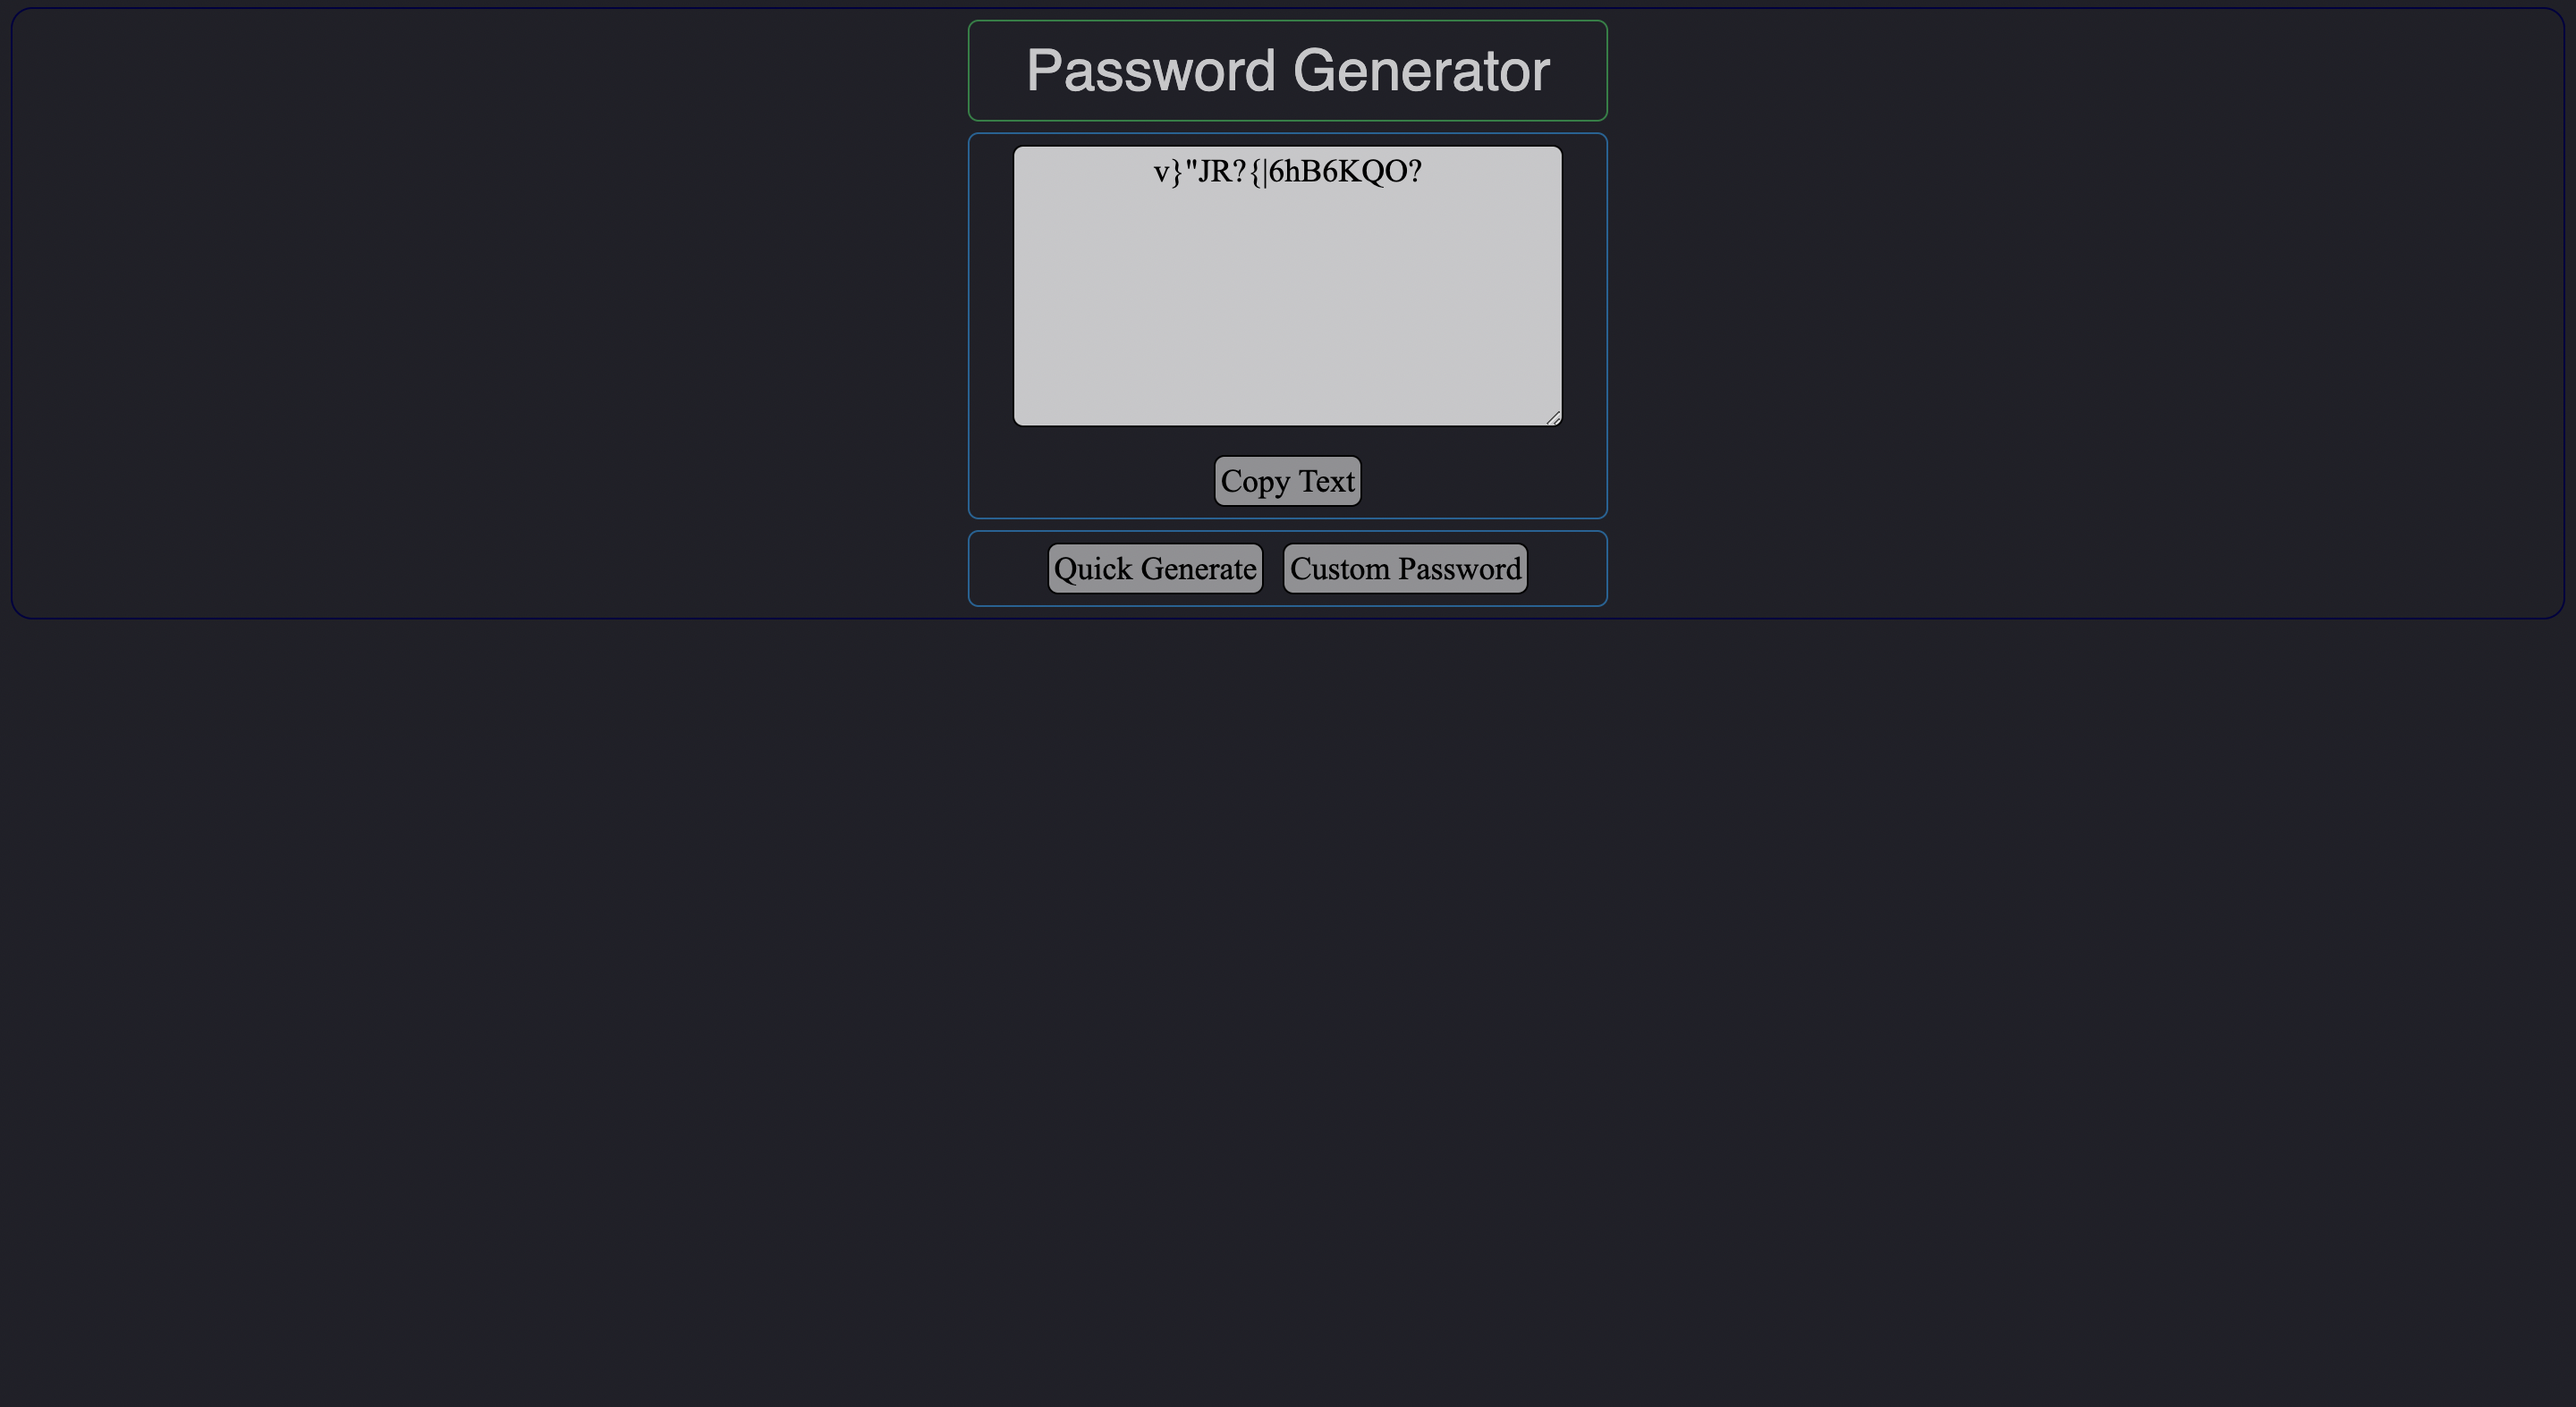
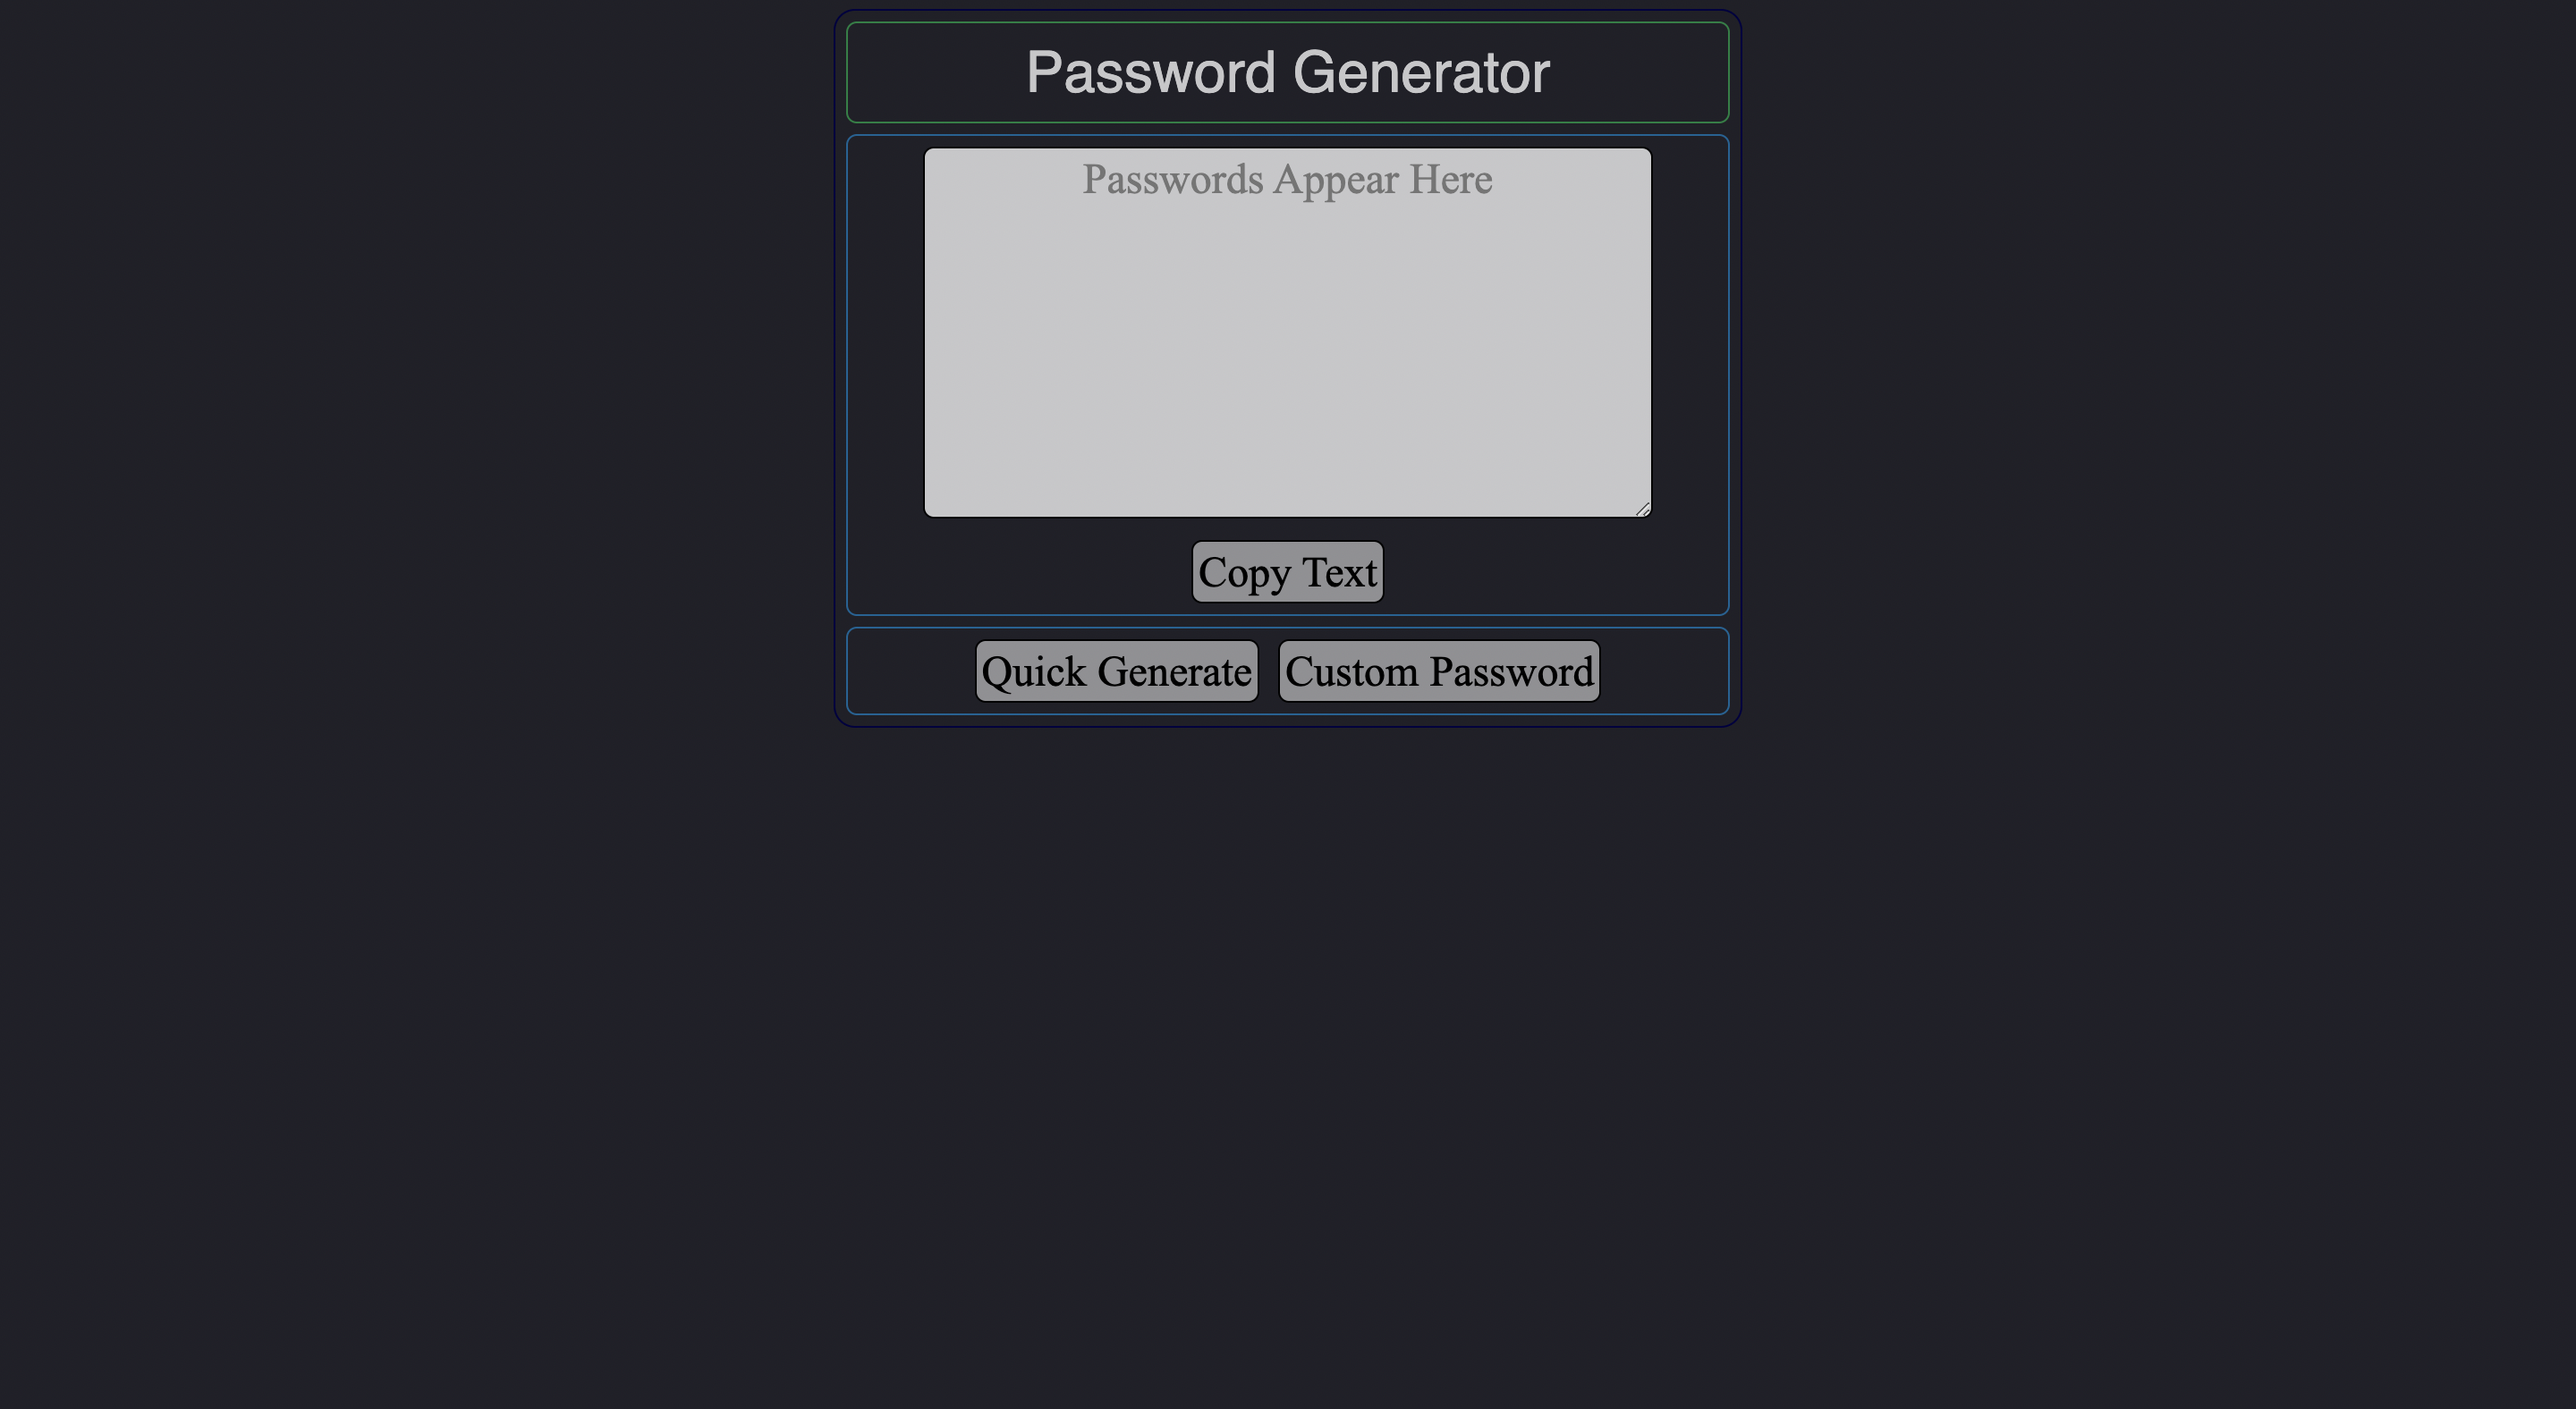
updated ui and screenshot, changed readme description to reflect new functionality

Changed region(s): [[0.3125, 0.0, 0.6875, 0.5292]]

diff --git a/assets/css/style.css b/assets/css/style.css
@@ -53,13 +53,13 @@ div {
 
 .wrapper {
     width: 100%;
-    max-width: 400px;
+    max-width: 500px;
     margin: 6px;
     border-color: var(--blue);
     border-radius: 12px;
 }
 
-h1, h2, a, li {
+h1 {
     color: rgba(255, 255, 255, 0.75);
     border: 0px;
     padding: 3px;
@@ -67,8 +67,8 @@ h1, h2, a, li {
 
 textarea {
     width: 90%;
-    max-width: 300px;
-    height: 150px;
+    max-width: 400px;
+    height: 200px;
     background-color: rgba(255, 255, 255, 0.75);
     padding: 3px;
 }
@@ -91,5 +91,5 @@ button:hover {
 
 p, li, button, textarea {
     font-family: 'Times New Roman', Times, serif;
-    font-size: large;
+    font-size: x-large;
 }

diff --git a/README.md b/README.md
@@ -17,7 +17,7 @@ https://dalto135.github.io/password-generator/
 HTML, CSS and Javascript
 
 ## Description
-A simple program that presents the user with a series of prompts in order to create a random password of their specifications. The user can choose the length, and whether the password includes uppercase and lowercase letters, numbers and special characters.
+A simple program that generates a random password. The user can click "Quick Generate" to instantly create a password, or they can create a custom password where they choose the length, and whether the password includes uppercase and lowercase letters, numbers and special characters.
 
 ## Screenshots
 ![Screenshot](assets/images/screenshot.png)
